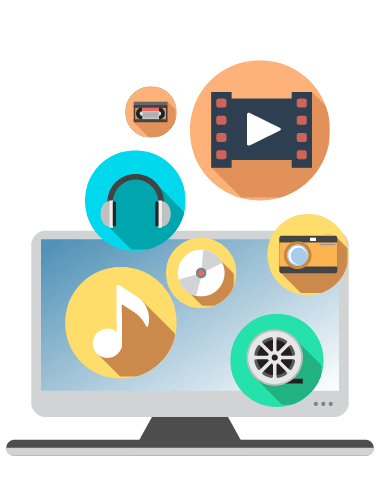
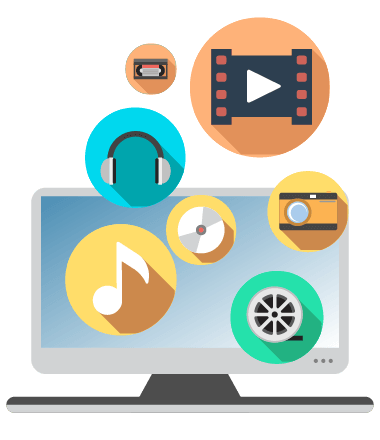
30032020

diff --git a/multimedia_menu.html b/multimedia_menu.html
@@ -67,7 +67,7 @@
                         <a href="actividades2.html">Actividad 2</a>
                     </div>
                 </li>
-                <li class="btn"><button class="btn" type="button" onclick="javascript:void(window.open('https://jdbernalor.github.io/DSW3/autores', '_self'));" title="Autor">Autor</button>
+                <li class="btn"><button class="btn" type="button" onclick="javascript:void(window.open('https://jdbernalor.github.io/DSW3/autores', '_self'));" title="Autores">Autores</button>
                     
                 </li>         
             </ul>
@@ -84,39 +84,28 @@
         <section style="text-align: center;"> 
             <section class="central" style="text-align: center;">
                 <article>
-                    <p>► En esta sección podras encontrar lecturas de</p>
+                    <p>► En esta sección podras encontrar contenido multimedial,</p>
+                    <p> audios y videos sobre el diseño de sitios web</p>
 
                 </article>
                 <br>
                 <article>
-                    <li class="btn"><button class="btn" type="button" onclick="javascript:void(window.open('https://jdbernalor.github.io/DSW3/lecturas1', '_self'));" title="Lectura 1">Lectura 1</button>
+                    <li class="btn"><button class="btn" type="button" onclick="javascript:void(window.open('https://jdbernalor.github.io/DSW3/multimedia1', '_self'));" title="Multimedia 1">Multimedia 1</button>
                 </article>
                 <br>
-                <article>
-                    <li class="btn"><button class="btn" type="button" onclick="javascript:void(window.open('https://jdbernalor.github.io/DSW3/lecturas2', '_self'));" title="Lectura 2">Lectura 2</button>
-                </article>
                 <br>
                 <article>
-                    <li class="btn"><button class="btn" type="button" onclick="javascript:void(window.open('https://jdbernalor.github.io/DSW3/lecturas3', '_self'));" title="Lectura 3">Lectura 3</button>
-                </article>
-                <br>
-                <article>
-                    <li class="btn"><button class="btn" type="button" onclick="javascript:void(window.open('https://jdbernalor.github.io/DSW3/lecturas4', '_self'));" title="Lectura 4">Lectura 4</button>
-                </article>
-                <br>
-                <article>
-                    <li class="btn"><button class="btn" type="button" onclick="javascript:void(window.open('https://jdbernalor.github.io/DSW3/lecturas5', '_self'));" title="Lectura 5">Lectura 5</button>
+                    <li class="btn"><button class="btn" type="button" onclick="javascript:void(window.open('https://jdbernalor.github.io/DSW3/multimedia2', '_self'));" title="Multimedia 2">Multimedia 2</button>
                 </article>
                 <br>
             </section>
             <aside> <!-- ##### Parte lateral ##### -->
-                <img src="ima/lectura_menu.png" alt="" width="70%">
+                <img src="ima/multimedia_menu.png" alt="" width="50%" style="vertical-align: top;";>
           
              </aside>
 
-
-            <br>
             <br> 
+            <br>
 
         <footer> <!-- ##### Pie de pagina ##### -->
 

diff --git a/autores.html b/autores.html
@@ -79,7 +79,7 @@
                         <a href="actividades2.html">Actividad 2</a>
                     </div>
                 </li>
-                <li class="btn"><button class="btn" type="button" onclick="javascript:void(window.open('https://jdbernalor.github.io/DSW3/autores', '_self'));" title="Autor">Autor</button>
+                <li class="btn"><button class="btn" type="button" onclick="javascript:void(window.open('https://jdbernalor.github.io/DSW3/autores', '_self'));" title="Autores">Autores</button>
                     
                 </li>         
             </ul>

diff --git a/index.html b/index.html
@@ -67,7 +67,7 @@
                         <a href="actividades2.html">Actividad 2</a>
                     </div>
                 </li>
-                <li class="btn"><button class="btn" type="button" onclick="javascript:void(window.open('https://jdbernalor.github.io/DSW3/autores', '_self'));" title="Autor">Autor</button>
+                <li class="btn"><button class="btn" type="button" onclick="javascript:void(window.open('https://jdbernalor.github.io/DSW3/autores', '_self'));" title="Autores">Autores</button>
                     
                 </li>         
             </ul>

diff --git a/lecturas1.html b/lecturas1.html
@@ -79,7 +79,7 @@
                         <a href="actividades2.html">Actividad 2</a>
                     </div>
                 </li>
-                <li class="btn"><button class="btn" type="button" onclick="javascript:void(window.open('https://jdbernalor.github.io/DSW3/autores', '_self'));" title="Autor">Autor</button>
+                <li class="btn"><button class="btn" type="button" onclick="javascript:void(window.open('https://jdbernalor.github.io/DSW3/autores', '_self'));" title="Autores">Autores</button>
                     
                 </li>         
             </ul>

diff --git a/lecturas_menu.html b/lecturas_menu.html
@@ -67,7 +67,7 @@
                         <a href="actividades2.html">Actividad 2</a>
                     </div>
                 </li>
-                <li class="btn"><button class="btn" type="button" onclick="javascript:void(window.open('https://jdbernalor.github.io/DSW3/autores', '_self'));" title="Autor">Autor</button>
+                <li class="btn"><button class="btn" type="button" onclick="javascript:void(window.open('https://jdbernalor.github.io/DSW3/autores', '_self'));" title="Autores">Autores</button>
                     
                 </li>         
             </ul>
